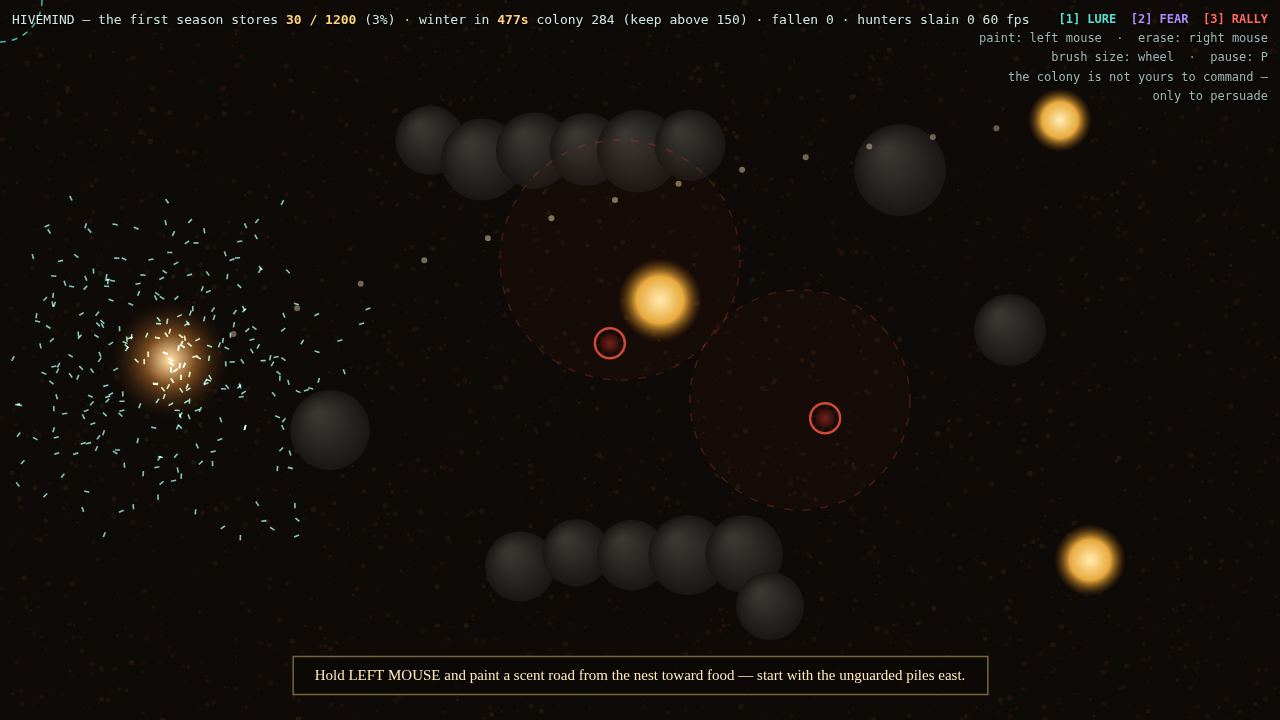
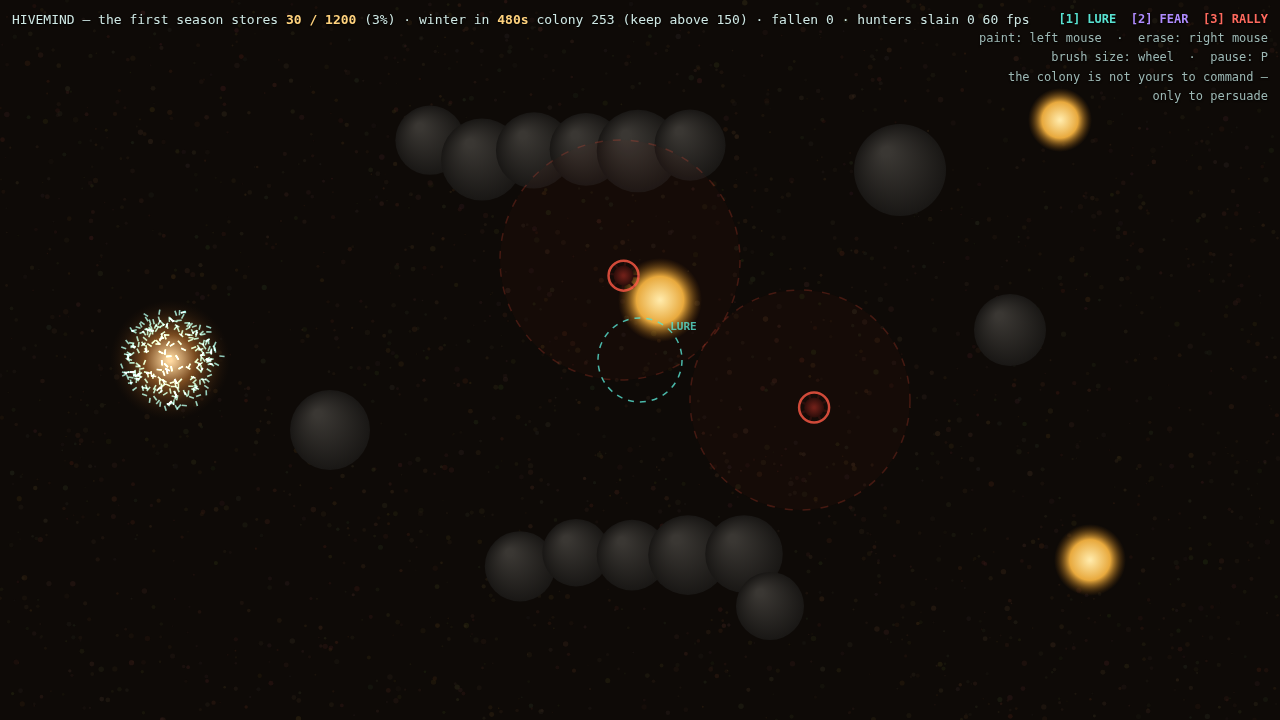
Stage 6 Loop 4c: vetted seed pool for "new territory" + fix stale click test
Difficulty normalization, done honestly. Because difficulty is emergent (no
static geometry feature predicts win-time, Loop 4 data), "new territory" [N]
now draws from an oracle-vetted pool (game/js/seedpool.js) instead of a random
seed: 20 seeds the commander wins in <=430 s (>=50 s margin) and on which
idle/naive still lose. Four fair-but-thin-margin seeds (win >=445 s) are held
out for a future harder mode rather than served by default. This removes the
risk of [N] handing the player a too-hard or (in principle) unwinnable-feeling
map, while keeping the 480 s limit and the discriminating floor intact.

- Wire pickSeed() into main.js [N]; add seedpool.js to the single-file build
  order; rebuild game/dist/HIVEMIND.html (verified: boots from file://,
  pickSeed global, pool size 20).
- Fix tools/click_test_hivemind.mjs: the title-card "click to start" gate
  (added in Loop 2) ate the test's only mousedown, so it never actually
  painted (banked=0, lure=0). Add an explicit start-click; the test now paints
  a road, banks food, and advances onboarding (paint-road -> road-continuity).

Verified: served pooled seed 1873 + commander WINS; pickSeed only ever returns
pool seeds and never the current one; idle loses on all sampled pool seeds.

Claude-Session: https://claude.ai/code/session_01AzwzJ2M536bFgPkRAcDSkt

diff --git a/game/js/seedpool.js b/game/js/seedpool.js
@@ -1,0 +1,29 @@
+// Vetted "new territory" seed pool — the difficulty normalizer.
+//
+// Generated maps are structurally FAIR by construction (world.js guarantees)
+// and were proven bot-WINNABLE across 24 seeds (PLAYTEST_LOG 2026-07-11). But
+// difficulty is EMERGENT: no cheap geometry feature predicts the commander's
+// win-time, so there is no reliable way to reject a too-hard map at generation
+// time. The viable normalizer is the offline ORACLE — pre-screen seeds with the
+// commander bot and ship only those it wins with a comfortable margin.
+//
+// This pool holds seeds where the commander wins in <=430 s (>=50 s under the
+// 480 s limit) AND idle/naive still lose (the scenario stays discriminating).
+// The thin-margin-but-fair seeds it excludes are recorded in HELD_OUT so a
+// harder mode can use them later. Regenerate with tools/bot_sweep.mjs.
+export const VETTED_SEEDS = [
+  1000, 1097, 1194, 1291, 1388, 1582, 1679, 1776, 1873, 1970,
+  2261, 2358, 2455, 2649, 2746, 2843, 2940, 3037, 3134, 3231,
+];
+
+// Oracle-winnable but the commander needed >=445 s (a slightly-imperfect human
+// would risk the clock). Fair, not shipped in the default pool.
+export const HELD_OUT = [1485, 2067, 2164, 2552];
+
+// Pick a fresh territory from the pool, avoiding an immediate repeat. `rnd` is
+// the [0,1) source (defaults to Math.random — this is UI, never the sim RNG).
+export function pickSeed(exclude, rnd = Math.random) {
+  const pool = VETTED_SEEDS.filter((s) => s !== exclude);
+  const list = pool.length ? pool : VETTED_SEEDS;
+  return list[(rnd() * list.length) | 0];
+}

diff --git a/game/js/main.js b/game/js/main.js
@@ -5,6 +5,7 @@ import { makeRenderer, draw, hudText, drawEndCard, drawTitle } from './render.js
 import { makeAutoPlayer } from './auto.js';
 import { SCENARIO, makeScenarioState, updateScenario } from './scenario.js';
 import { makeOnboarding, updateOnboarding, drawOnboarding } from './onboarding.js';
+import { pickSeed } from './seedpool.js';
 
 const q = new URLSearchParams(location.search);
 const seed = parseInt(q.get('seed') || '7', 10);
@@ -47,7 +48,10 @@ window.addEventListener('keydown', (e) => {
   if (e.key === 'p' || e.key === 'P') ui.paused = !ui.paused;
   if (sc.over) {
     if (e.key === 'r' || e.key === 'R') location.search = `?seed=${seed}`;
-    if (e.key === 'n' || e.key === 'N') location.search = `?seed=${(Math.random() * 100000) | 0}`;
+    // "new territory" draws from the oracle-vetted pool (see seedpool.js) so
+    // every replay map is one competent play can beat — not a random,
+    // possibly-too-hard seed.
+    if (e.key === 'n' || e.key === 'N') location.search = `?seed=${pickSeed(seed)}`;
   }
 });
 

diff --git a/HEARTBEAT.md b/HEARTBEAT.md
@@ -11,6 +11,6 @@ commit. Never force-push.
 ```
 status: active
 session: dev-ecstatic-ride-20260711
-last_update_utc: 2026-07-11T02:15:00Z
-note: Stage 6 Loop 4 — commander bot generalized (WAR-road assault); 24/24 generated seeds bot-WINNABLE + seed 7. Work on branch claude/ecstatic-ride-h0dy5s.
+last_update_utc: 2026-07-11T02:45:00Z
+note: Stage 6 Loop 4 — commander oracle 24/24; oracle-vetted seed pool wired into [N] "new territory"; click test fixed. Work on branch claude/ecstatic-ride-h0dy5s.
 ```